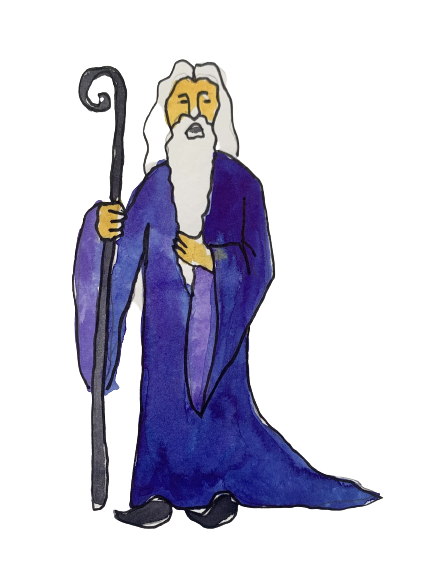
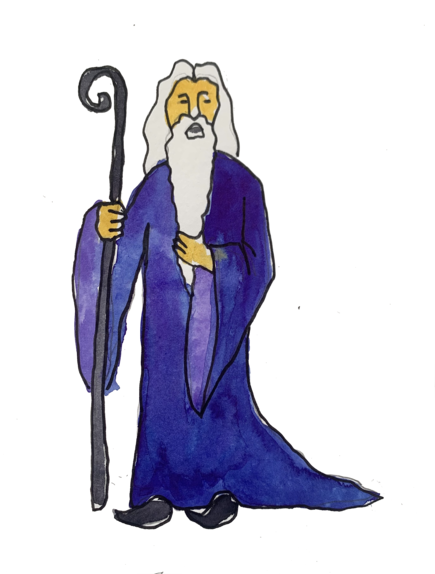
fixed the wizards hair, aswell as adding a read me with detailed info.

diff --git a/README.md b/README.md
@@ -4,89 +4,27 @@
 
 ## Getting started
 
-To make it easy for you to get started with GitLab, here's a list of recommended next steps.
+###
+To run the program, you will need Java 17, as well as the JavaFX SDK. You can download Java 17 [here](https://www.oracle.com/java/technologies/downloads/#java17) and the JavaFX SDK [here](https://gluonhq.com/products/javafx/). You will also need a Java IDE, such as [IntelliJ IDEA](https://www.jetbrains.com/idea/) or [Eclipse](https://www.eclipse.org/ide/).
 
-Already a pro? Just edit this README.md and make it your own. Want to make it easy? [Use the template at the bottom](#editing-this-readme)!
+We advise that you run the program through an IDE, using maven. 
 
-## Add your files
 
-- [ ] [Create](https://docs.gitlab.com/ee/user/project/repository/web_editor.html#create-a-file) or [upload](https://docs.gitlab.com/ee/user/project/repository/web_editor.html#upload-a-file) files
-- [ ] [Add files using the command line](https://docs.gitlab.com/ee/gitlab-basics/add-file.html#add-a-file-using-the-command-line) or push an existing Git repository with the following command:
+### Running the program
+To run the program, you simply pull the git repository to your computer. 
 
-```
-cd existing_repo
-git remote add origin https://gitlab.stud.idi.ntnu.no/idatt2001_team29/adventuregame.git
-git branch -M main
-git push -uf origin main
-```
+Then, you open the project in your IDE.
 
-## Integrate with your tools
+## Navigation
+The program is navigated using the mouse. You click on the buttons to choose your path.
 
-- [ ] [Set up project integrations](https://gitlab.stud.idi.ntnu.no/idatt2001_team29/adventuregame/-/settings/integrations)
+### Main Menu 
 
-## Collaborate with your team
+![Main Menu](src/main/resources/readmeFiles/Screenshot 2023-05-21 at 14.43.40.png)
 
-- [ ] [Invite team members and collaborators](https://docs.gitlab.com/ee/user/project/members/)
-- [ ] [Create a new merge request](https://docs.gitlab.com/ee/user/project/merge_requests/creating_merge_requests.html)
-- [ ] [Automatically close issues from merge requests](https://docs.gitlab.com/ee/user/project/issues/managing_issues.html#closing-issues-automatically)
-- [ ] [Enable merge request approvals](https://docs.gitlab.com/ee/user/project/merge_requests/approvals/)
-- [ ] [Automatically merge when pipeline succeeds](https://docs.gitlab.com/ee/user/project/merge_requests/merge_when_pipeline_succeeds.html)
+### Game
+![Game](src/main/resources/readmeFiles/Screenshot 2023-05-21 at 14.46.37.png)
 
-## Test and Deploy
 
-Use the built-in continuous integration in GitLab.
-
-- [ ] [Get started with GitLab CI/CD](https://docs.gitlab.com/ee/ci/quick_start/index.html)
-- [ ] [Analyze your code for known vulnerabilities with Static Application Security Testing(SAST)](https://docs.gitlab.com/ee/user/application_security/sast/)
-- [ ] [Deploy to Kubernetes, Amazon EC2, or Amazon ECS using Auto Deploy](https://docs.gitlab.com/ee/topics/autodevops/requirements.html)
-- [ ] [Use pull-based deployments for improved Kubernetes management](https://docs.gitlab.com/ee/user/clusters/agent/)
-- [ ] [Set up protected environments](https://docs.gitlab.com/ee/ci/environments/protected_environments.html)
-
-***
-
-# Editing this README
-
-When you're ready to make this README your own, just edit this file and use the handy template below (or feel free to structure it however you want - this is just a starting point!). Thank you to [makeareadme.com](https://www.makeareadme.com/) for this template.
-
-## Suggestions for a good README
-Every project is different, so consider which of these sections apply to yours. The sections used in the template are suggestions for most open source projects. Also keep in mind that while a README can be too long and detailed, too long is better than too short. If you think your README is too long, consider utilizing another form of documentation rather than cutting out information.
-
-## Name
-Choose a self-explaining name for your project.
-
-## Description
-Let people know what your project can do specifically. Provide context and add a link to any reference visitors might be unfamiliar with. A list of Features or a Background subsection can also be added here. If there are alternatives to your project, this is a good place to list differentiating factors.
-
-## Badges
-On some READMEs, you may see small images that convey metadata, such as whether or not all the tests are passing for the project. You can use Shields to add some to your README. Many services also have instructions for adding a badge.
-
-## Visuals
-Depending on what you are making, it can be a good idea to include screenshots or even a video (you'll frequently see GIFs rather than actual videos). Tools like ttygif can help, but check out Asciinema for a more sophisticated method.
-
-## Installation
-Within a particular ecosystem, there may be a common way of installing things, such as using Yarn, NuGet, or Homebrew. However, consider the possibility that whoever is reading your README is a novice and would like more guidance. Listing specific steps helps remove ambiguity and gets people to using your project as quickly as possible. If it only runs in a specific context like a particular programming language version or operating system or has dependencies that have to be installed manually, also add a Requirements subsection.
-
-## Usage
-Use examples liberally, and show the expected output if you can. It's helpful to have inline the smallest example of usage that you can demonstrate, while providing links to more sophisticated examples if they are too long to reasonably include in the README.
-
-## Support
-Tell people where they can go to for help. It can be any combination of an issue tracker, a chat room, an email address, etc.
-
-## Roadmap
-If you have ideas for releases in the future, it is a good idea to list them in the README.
-
-## Contributing
-State if you are open to contributions and what your requirements are for accepting them.
-
-For people who want to make changes to your project, it's helpful to have some documentation on how to get started. Perhaps there is a script that they should run or some environment variables that they need to set. Make these steps explicit. These instructions could also be useful to your future self.
-
-You can also document commands to lint the code or run tests. These steps help to ensure high code quality and reduce the likelihood that the changes inadvertently break something. Having instructions for running tests is especially helpful if it requires external setup, such as starting a Selenium server for testing in a browser.
-
-## Authors and acknowledgment
-Show your appreciation to those who have contributed to the project.
-
-## License
-For open source projects, say how it is licensed.
-
-## Project status
-If you have run out of energy or time for your project, put a note at the top of the README saying that development has slowed down or stopped completely. Someone may choose to fork your project or volunteer to step in as a maintainer or owner, allowing your project to keep going. You can also make an explicit request for maintainers.
+## Acknowledgements
+All art is painted by hand by our personal graphic designer, [Frid](https://www.instagram.com//).
